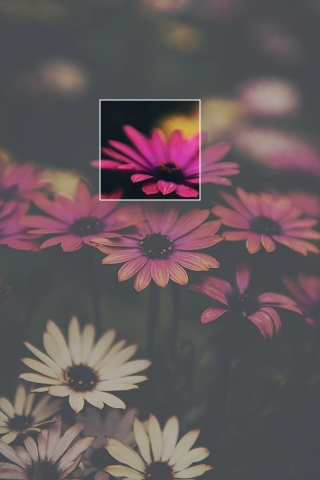
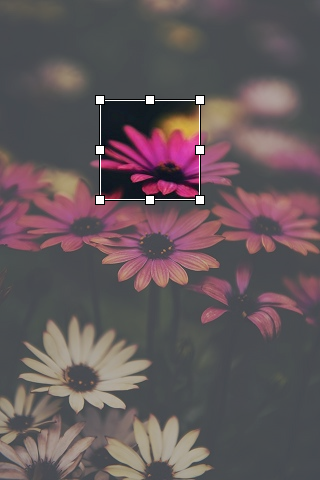
Render resize handles for crop preview
For #2

diff --git a/Fotografix.Win2D/Composition/CropPreviewNode.cs b/Fotografix.Win2D/Composition/CropPreviewNode.cs
@@ -1,20 +1,37 @@
 using Microsoft.Graphics.Canvas;
 using Microsoft.Graphics.Canvas.Geometry;
 using System;
+using System.Collections.Generic;
+using System.Drawing;
 using System.Numerics;
-using Windows.Foundation;
-using Windows.UI;
 
 namespace Fotografix.Win2D.Composition
 {
     internal sealed class CropPreviewNode : IDisposable
     {
-        private static readonly Color DimColor = Color.FromArgb(128, 128, 128, 128);
+        private const int HandleSize = 8;
+
+        private static readonly Windows.UI.Color DimColor = Windows.UI.Color.FromArgb(128, 128, 128, 128);
+        private static readonly Windows.UI.Color OuterStrokeColor = Windows.UI.Colors.Black;
+        private static readonly Windows.UI.Color InnerStrokeColor = Windows.UI.Colors.White;
+        private static readonly Windows.UI.Color FillColor = Windows.UI.Colors.White;
+
+        private static readonly List<PointF> HandleLocations = new List<PointF>
+        {
+            new PointF(0.0f, 0.0f),
+            new PointF(0.5f, 0.0f),
+            new PointF(1.0f, 0.0f),
+            new PointF(0.0f, 0.5f),
+            new PointF(1.0f, 0.5f),
+            new PointF(0.0f, 1.0f),
+            new PointF(0.5f, 1.0f),
+            new PointF(1.0f, 1.0f)
+        };
 
         private readonly CanvasGeometry dimmedArea;
-        private readonly Rect cropRect;
+        private readonly Rectangle cropRect;
 
-        public CropPreviewNode(ICanvasResourceCreator resourceCreator, System.Drawing.Size imageSize, System.Drawing.Rectangle cropRectangle)
+        public CropPreviewNode(ICanvasResourceCreator resourceCreator, Size imageSize, Rectangle cropRectangle)
         {
             using (CanvasGeometry imageBoundsGeometry = CanvasGeometry.CreateRectangle(resourceCreator, 0, 0, imageSize.Width, imageSize.Height))
             using (CanvasGeometry cropRectangleGeometry = CanvasGeometry.CreateRectangle(resourceCreator, cropRectangle.X, cropRectangle.Y, cropRectangle.Width, cropRectangle.Height))
@@ -22,7 +39,7 @@ namespace Fotografix.Win2D.Composition
                 this.dimmedArea = imageBoundsGeometry.CombineWith(cropRectangleGeometry, Matrix3x2.Identity, CanvasGeometryCombine.Exclude);
             }
 
-            this.cropRect = cropRectangle.ToWindowsRect();
+            this.cropRect = cropRectangle;
         }
 
         public void Dispose()
@@ -32,8 +49,47 @@ namespace Fotografix.Win2D.Composition
 
         public void Draw(CanvasDrawingSession ds)
         {
+            void OuterStroke(RectangleF r)
+            {
+                ds.DrawRectangle(r.X - 0.5f, r.Y - 0.5f, r.Width + 1f, r.Height + 1f, OuterStrokeColor);
+            }
+
+            void InnerStroke(RectangleF r)
+            {
+                ds.DrawRectangle(r.X + 0.5f, r.Y + 0.5f, r.Width - 1f, r.Height - 1f, InnerStrokeColor);
+            }
+
+            void Fill(RectangleF r)
+            {
+                ds.FillRectangle(r.X, r.Y, r.Width, r.Height, FillColor);
+            }
+
             ds.FillGeometry(dimmedArea, DimColor);
-            ds.DrawRectangle(cropRect, Colors.White);
+
+            OuterStroke(cropRect);
+            InnerStroke(cropRect);
+
+            foreach (PointF hl in HandleLocations)
+            {
+                RectangleF r = GetHandleRectangle(hl);
+                OuterStroke(r);
+                Fill(r);
+            }
+        }
+
+        private RectangleF GetHandleRectangle(PointF hl)
+        {
+            PointF pt = new PointF(
+                cropRect.X + hl.X * cropRect.Width,
+                cropRect.Y + hl.Y * cropRect.Height
+            );
+
+            return RectangleF.FromLTRB(
+                pt.X - HandleSize / 2,
+                pt.Y - HandleSize / 2,
+                pt.X + HandleSize / 2,
+                pt.Y + HandleSize / 2
+            );
         }
     }
 }
